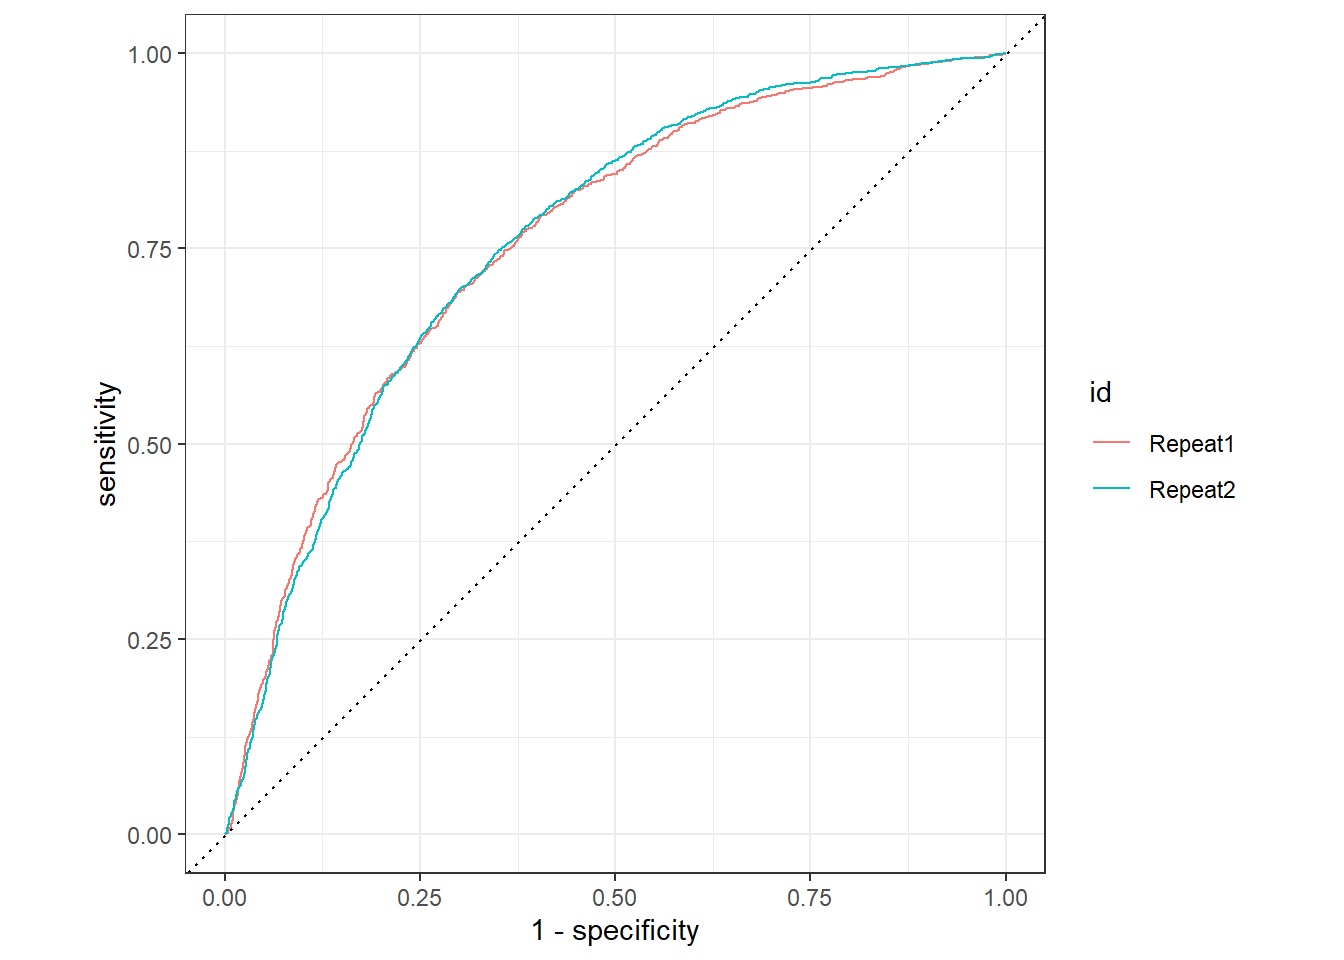
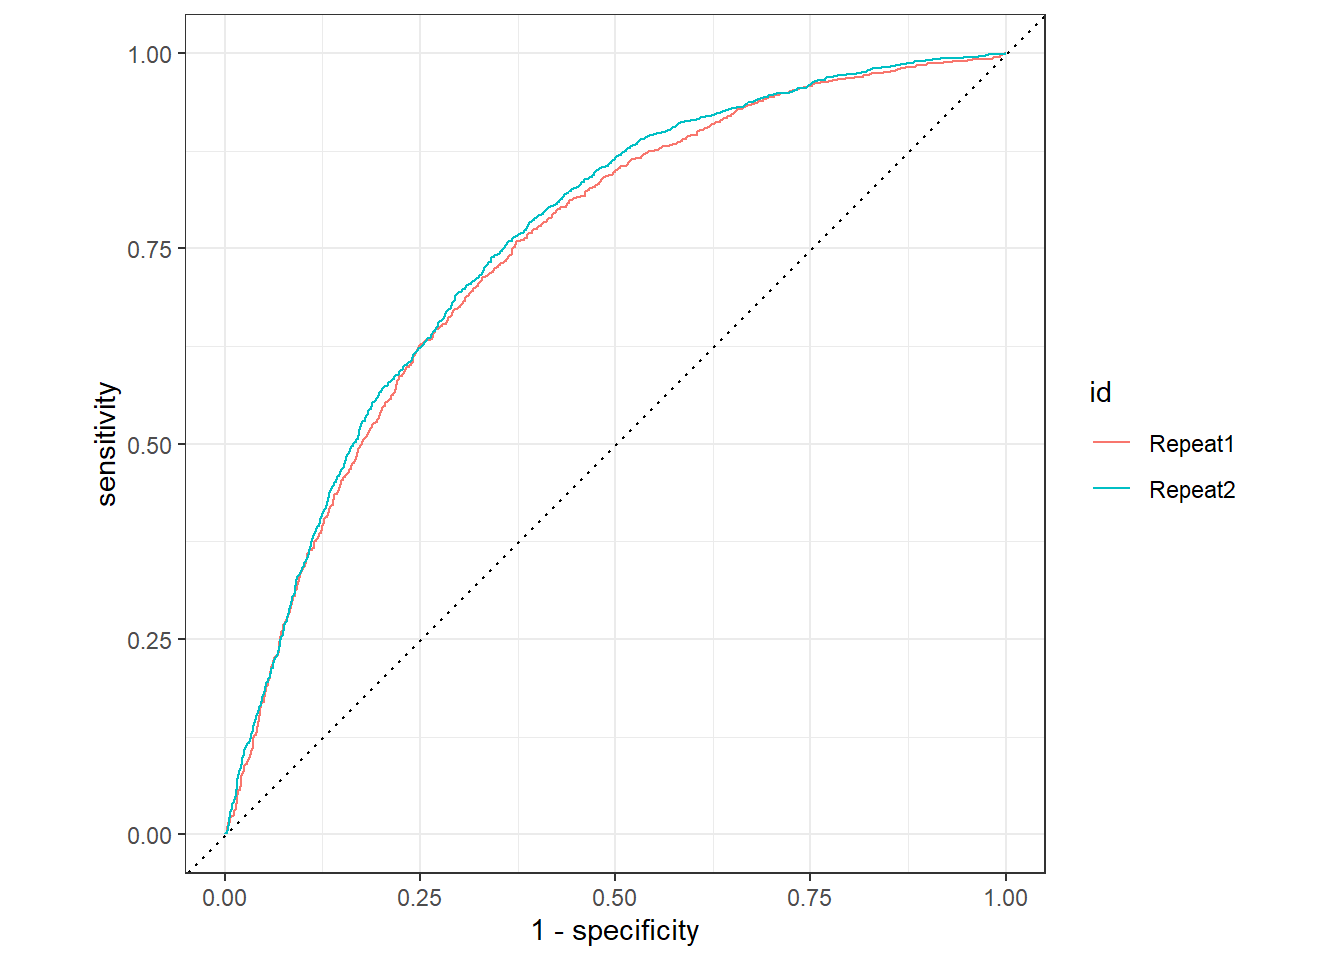
update 15.36

diff --git a/_site/posts/Text-Mining_NEW/index.html b/_site/posts/Text-Mining_NEW/index.html
@@ -614,7 +614,7 @@ Computational engine: glmnet </code></pre>
 <pre><code>Warning: Paket 'Matrix' wurde unter R Version 4.1.3 erstellt</code></pre>
 </div>
 <div class="cell-output cell-output-stderr">
-<pre><code>x Fold3, Repeat1: preprocessor 1/1, model 1/1 (predictions): Error in h(simpleError(msg, call)): Fehler bei der Auswertung des Argume...</code></pre>
+<pre><code>x Fold3, Repeat1: preprocessor 1/1, model 1/1: Error: kann Vektor der Größe 324.7 MB nicht allozieren</code></pre>
 </div>
 </div>
 </section>
@@ -627,16 +627,16 @@ Computational engine: glmnet </code></pre>
 <pre><code># A tibble: 50 x 7
     penalty .metric  .estimator  mean     n std_err .config              
       &lt;dbl&gt; &lt;chr&gt;    &lt;chr&gt;      &lt;dbl&gt; &lt;int&gt;   &lt;dbl&gt; &lt;chr&gt;                
- 1 1   e-10 accuracy binary     0.716     5 0.00444 Preprocessor1_Model01
- 2 1   e-10 roc_auc  binary     0.761     5 0.00319 Preprocessor1_Model01
- 3 2.61e-10 accuracy binary     0.716     5 0.00444 Preprocessor1_Model02
- 4 2.61e-10 roc_auc  binary     0.761     5 0.00319 Preprocessor1_Model02
- 5 6.81e-10 accuracy binary     0.716     5 0.00444 Preprocessor1_Model03
- 6 6.81e-10 roc_auc  binary     0.761     5 0.00319 Preprocessor1_Model03
- 7 1.78e- 9 accuracy binary     0.716     5 0.00444 Preprocessor1_Model04
- 8 1.78e- 9 roc_auc  binary     0.761     5 0.00319 Preprocessor1_Model04
- 9 4.64e- 9 accuracy binary     0.716     5 0.00444 Preprocessor1_Model05
-10 4.64e- 9 roc_auc  binary     0.761     5 0.00319 Preprocessor1_Model05
+ 1 1   e-10 accuracy binary     0.708     5 0.00370 Preprocessor1_Model01
+ 2 1   e-10 roc_auc  binary     0.756     5 0.00603 Preprocessor1_Model01
+ 3 2.61e-10 accuracy binary     0.708     5 0.00370 Preprocessor1_Model02
+ 4 2.61e-10 roc_auc  binary     0.756     5 0.00603 Preprocessor1_Model02
+ 5 6.81e-10 accuracy binary     0.708     5 0.00370 Preprocessor1_Model03
+ 6 6.81e-10 roc_auc  binary     0.756     5 0.00603 Preprocessor1_Model03
+ 7 1.78e- 9 accuracy binary     0.708     5 0.00370 Preprocessor1_Model04
+ 8 1.78e- 9 roc_auc  binary     0.756     5 0.00603 Preprocessor1_Model04
+ 9 4.64e- 9 accuracy binary     0.708     5 0.00370 Preprocessor1_Model05
+10 4.64e- 9 roc_auc  binary     0.756     5 0.00603 Preprocessor1_Model05
 # ... with 40 more rows</code></pre>
 </div>
 </div>
@@ -667,7 +667,7 @@ Computational engine: glmnet </code></pre>
 <pre><code># A tibble: 1 x 9
   penalty .metric .estimator  mean     n std_err .config            .best .bound
     &lt;dbl&gt; &lt;chr&gt;   &lt;chr&gt;      &lt;dbl&gt; &lt;int&gt;   &lt;dbl&gt; &lt;chr&gt;              &lt;dbl&gt;  &lt;dbl&gt;
-1       1 roc_auc binary     0.762     5 0.00322 Preprocessor1_Mod~ 0.762  0.759</code></pre>
+1       1 roc_auc binary     0.757     5 0.00593 Preprocessor1_Mod~ 0.757  0.751</code></pre>
 </div>
 </div>
 </section>
@@ -679,7 +679,7 @@ Computational engine: glmnet </code></pre>
 <pre><code># A tibble: 1 x 3
   .metric .estimator .estimate
   &lt;chr&gt;   &lt;chr&gt;          &lt;dbl&gt;
-1 ppv     binary         0.655</code></pre>
+1 ppv     binary         0.638</code></pre>
 </div>
 </div>
 </section>
@@ -772,16 +772,16 @@ Computational engine: glmnet </code></pre>
 <pre><code># A tibble: 50 x 7
     penalty .metric  .estimator  mean     n std_err .config              
       &lt;dbl&gt; &lt;chr&gt;    &lt;chr&gt;      &lt;dbl&gt; &lt;int&gt;   &lt;dbl&gt; &lt;chr&gt;                
- 1 1   e-10 accuracy binary     0.731     6 0.00223 Preprocessor1_Model01
- 2 1   e-10 roc_auc  binary     0.757     6 0.00357 Preprocessor1_Model01
- 3 2.61e-10 accuracy binary     0.731     6 0.00223 Preprocessor1_Model02
- 4 2.61e-10 roc_auc  binary     0.757     6 0.00357 Preprocessor1_Model02
- 5 6.81e-10 accuracy binary     0.731     6 0.00223 Preprocessor1_Model03
- 6 6.81e-10 roc_auc  binary     0.757     6 0.00357 Preprocessor1_Model03
- 7 1.78e- 9 accuracy binary     0.731     6 0.00223 Preprocessor1_Model04
- 8 1.78e- 9 roc_auc  binary     0.757     6 0.00357 Preprocessor1_Model04
- 9 4.64e- 9 accuracy binary     0.731     6 0.00223 Preprocessor1_Model05
-10 4.64e- 9 roc_auc  binary     0.757     6 0.00357 Preprocessor1_Model05
+ 1 1   e-10 accuracy binary     0.736     6 0.00297 Preprocessor1_Model01
+ 2 1   e-10 roc_auc  binary     0.763     6 0.00295 Preprocessor1_Model01
+ 3 2.61e-10 accuracy binary     0.736     6 0.00297 Preprocessor1_Model02
+ 4 2.61e-10 roc_auc  binary     0.763     6 0.00295 Preprocessor1_Model02
+ 5 6.81e-10 accuracy binary     0.736     6 0.00297 Preprocessor1_Model03
+ 6 6.81e-10 roc_auc  binary     0.763     6 0.00295 Preprocessor1_Model03
+ 7 1.78e- 9 accuracy binary     0.736     6 0.00297 Preprocessor1_Model04
+ 8 1.78e- 9 roc_auc  binary     0.763     6 0.00295 Preprocessor1_Model04
+ 9 4.64e- 9 accuracy binary     0.736     6 0.00297 Preprocessor1_Model05
+10 4.64e- 9 roc_auc  binary     0.763     6 0.00295 Preprocessor1_Model05
 # ... with 40 more rows</code></pre>
 </div>
 </div>
@@ -809,7 +809,7 @@ Computational engine: glmnet </code></pre>
 <pre><code># A tibble: 1 x 9
   penalty .metric .estimator  mean     n std_err .config            .best .bound
     &lt;dbl&gt; &lt;chr&gt;   &lt;chr&gt;      &lt;dbl&gt; &lt;int&gt;   &lt;dbl&gt; &lt;chr&gt;              &lt;dbl&gt;  &lt;dbl&gt;
-1   0.147 roc_auc binary     0.762     6 0.00269 Preprocessor1_Mod~ 0.763  0.760</code></pre>
+1   0.147 roc_auc binary     0.767     6 0.00378 Preprocessor1_Mod~ 0.768  0.764</code></pre>
 </div>
 </div>
 <div class="cell">
@@ -831,7 +831,7 @@ Computational engine: glmnet </code></pre>
 <pre><code># A tibble: 1 x 3
   .metric .estimator .estimate
   &lt;chr&gt;   &lt;chr&gt;          &lt;dbl&gt;
-1 ppv     binary         0.654</code></pre>
+1 ppv     binary         0.667</code></pre>
 </div>
 </div>
 </section>
@@ -906,7 +906,7 @@ Computational engine: glmnet </code></pre>
 <span id="cb72-8"><a href="#cb72-8" aria-hidden="true" tabindex="-1"></a>)</span>
 <span id="cb72-9"><a href="#cb72-9" aria-hidden="true" tabindex="-1"></a><span class="fu">toc</span>()</span></code><button title="Copy to Clipboard" class="code-copy-button"><i class="bi"></i></button></pre></div>
 <div class="cell-output cell-output-stdout">
-<pre><code>834.08 sec elapsed</code></pre>
+<pre><code>1227.83 sec elapsed</code></pre>
 </div>
 </div>
 </section>
@@ -919,16 +919,16 @@ Computational engine: glmnet </code></pre>
 <pre><code># A tibble: 50 x 7
     penalty .metric  .estimator  mean     n std_err .config              
       &lt;dbl&gt; &lt;chr&gt;    &lt;chr&gt;      &lt;dbl&gt; &lt;int&gt;   &lt;dbl&gt; &lt;chr&gt;                
- 1 1   e-10 accuracy binary     0.740     6 0.00391 Preprocessor1_Model01
- 2 1   e-10 roc_auc  binary     0.774     6 0.00518 Preprocessor1_Model01
- 3 2.61e-10 accuracy binary     0.740     6 0.00391 Preprocessor1_Model02
- 4 2.61e-10 roc_auc  binary     0.774     6 0.00518 Preprocessor1_Model02
- 5 6.81e-10 accuracy binary     0.740     6 0.00391 Preprocessor1_Model03
- 6 6.81e-10 roc_auc  binary     0.774     6 0.00518 Preprocessor1_Model03
- 7 1.78e- 9 accuracy binary     0.740     6 0.00391 Preprocessor1_Model04
- 8 1.78e- 9 roc_auc  binary     0.774     6 0.00518 Preprocessor1_Model04
- 9 4.64e- 9 accuracy binary     0.740     6 0.00391 Preprocessor1_Model05
-10 4.64e- 9 roc_auc  binary     0.774     6 0.00518 Preprocessor1_Model05
+ 1 1   e-10 accuracy binary     0.748     6 0.00200 Preprocessor1_Model01
+ 2 1   e-10 roc_auc  binary     0.774     6 0.00204 Preprocessor1_Model01
+ 3 2.61e-10 accuracy binary     0.748     6 0.00200 Preprocessor1_Model02
+ 4 2.61e-10 roc_auc  binary     0.774     6 0.00204 Preprocessor1_Model02
+ 5 6.81e-10 accuracy binary     0.748     6 0.00200 Preprocessor1_Model03
+ 6 6.81e-10 roc_auc  binary     0.774     6 0.00204 Preprocessor1_Model03
+ 7 1.78e- 9 accuracy binary     0.748     6 0.00200 Preprocessor1_Model04
+ 8 1.78e- 9 roc_auc  binary     0.774     6 0.00204 Preprocessor1_Model04
+ 9 4.64e- 9 accuracy binary     0.748     6 0.00200 Preprocessor1_Model05
+10 4.64e- 9 roc_auc  binary     0.774     6 0.00204 Preprocessor1_Model05
 # ... with 40 more rows</code></pre>
 </div>
 </div>
@@ -969,7 +969,7 @@ Computational engine: glmnet </code></pre>
 <pre><code># A tibble: 1 x 9
   penalty .metric .estimator  mean     n std_err .config            .best .bound
     &lt;dbl&gt; &lt;chr&gt;   &lt;chr&gt;      &lt;dbl&gt; &lt;int&gt;   &lt;dbl&gt; &lt;chr&gt;              &lt;dbl&gt;  &lt;dbl&gt;
-1 0.00825 roc_auc binary     0.780     6 0.00353 Preprocessor1_Mod~ 0.780  0.777</code></pre>
+1 0.00825 roc_auc binary     0.784     6 0.00471 Preprocessor1_Mod~ 0.784  0.780</code></pre>
 </div>
 </div>
 </section>
@@ -981,7 +981,7 @@ Computational engine: glmnet </code></pre>
 <pre><code># A tibble: 1 x 3
   .metric .estimator .estimate
   &lt;chr&gt;   &lt;chr&gt;          &lt;dbl&gt;
-1 ppv     binary         0.659</code></pre>
+1 ppv     binary         0.677</code></pre>
 </div>
 </div>
 </section>
@@ -1064,16 +1064,16 @@ Computational engine: glmnet </code></pre>
 <pre><code># A tibble: 50 x 7
     penalty .metric  .estimator  mean     n std_err .config              
       &lt;dbl&gt; &lt;chr&gt;    &lt;chr&gt;      &lt;dbl&gt; &lt;int&gt;   &lt;dbl&gt; &lt;chr&gt;                
- 1 1   e-10 accuracy binary     0.709     6 0.00201 Preprocessor1_Model01
- 2 1   e-10 roc_auc  binary     0.770     6 0.00407 Preprocessor1_Model01
- 3 2.61e-10 accuracy binary     0.709     6 0.00201 Preprocessor1_Model02
- 4 2.61e-10 roc_auc  binary     0.770     6 0.00407 Preprocessor1_Model02
- 5 6.81e-10 accuracy binary     0.709     6 0.00201 Preprocessor1_Model03
- 6 6.81e-10 roc_auc  binary     0.770     6 0.00407 Preprocessor1_Model03
- 7 1.78e- 9 accuracy binary     0.709     6 0.00201 Preprocessor1_Model04
- 8 1.78e- 9 roc_auc  binary     0.770     6 0.00407 Preprocessor1_Model04
- 9 4.64e- 9 accuracy binary     0.709     6 0.00201 Preprocessor1_Model05
-10 4.64e- 9 roc_auc  binary     0.770     6 0.00407 Preprocessor1_Model05
+ 1 1   e-10 accuracy binary     0.703     6 0.00190 Preprocessor1_Model01
+ 2 1   e-10 roc_auc  binary     0.768     6 0.00502 Preprocessor1_Model01
+ 3 2.61e-10 accuracy binary     0.703     6 0.00190 Preprocessor1_Model02
+ 4 2.61e-10 roc_auc  binary     0.768     6 0.00502 Preprocessor1_Model02
+ 5 6.81e-10 accuracy binary     0.703     6 0.00190 Preprocessor1_Model03
+ 6 6.81e-10 roc_auc  binary     0.768     6 0.00502 Preprocessor1_Model03
+ 7 1.78e- 9 accuracy binary     0.703     6 0.00190 Preprocessor1_Model04
+ 8 1.78e- 9 roc_auc  binary     0.768     6 0.00502 Preprocessor1_Model04
+ 9 4.64e- 9 accuracy binary     0.703     6 0.00190 Preprocessor1_Model05
+10 4.64e- 9 roc_auc  binary     0.768     6 0.00502 Preprocessor1_Model05
 # ... with 40 more rows</code></pre>
 </div>
 </div>
@@ -1101,7 +1101,7 @@ Computational engine: glmnet </code></pre>
 <pre><code># A tibble: 1 x 9
   penalty .metric .estimator  mean     n std_err .config            .best .bound
     &lt;dbl&gt; &lt;chr&gt;   &lt;chr&gt;      &lt;dbl&gt; &lt;int&gt;   &lt;dbl&gt; &lt;chr&gt;              &lt;dbl&gt;  &lt;dbl&gt;
-1       1 roc_auc binary     0.770     6 0.00407 Preprocessor1_Mod~ 0.770  0.766</code></pre>
+1       1 roc_auc binary     0.768     6 0.00502 Preprocessor1_Mod~ 0.768  0.763</code></pre>
 </div>
 </div>
 <div class="cell">
@@ -1123,7 +1123,7 @@ Computational engine: glmnet </code></pre>
 <pre><code># A tibble: 1 x 3
   .metric .estimator .estimate
   &lt;chr&gt;   &lt;chr&gt;          &lt;dbl&gt;
-1 ppv     binary         0.683</code></pre>
+1 ppv     binary         0.665</code></pre>
 </div>
 </div>
 </section>

diff --git a/_site/index.html b/_site/index.html
@@ -171,9 +171,9 @@ ul.task-list li input[type="checkbox"] {
 
 <div class="quarto-listing quarto-listing-container-default" id="listing-listing">
 <div class="list quarto-listing-default">
-<div class="quarto-post image-right" data-index="0" data-categories="code,analysis" data-listing-date-sort="1675119600000" data-listing-file-modified-sort="1675248364118" data-listing-reading-time-sort="2.07">
+<div class="quarto-post image-right" data-index="0" data-categories="code,analysis" data-listing-date-sort="1675119600000" data-listing-file-modified-sort="1675259705884" data-listing-reading-time-sort="1.715">
 <div class="thumbnail">
-<p><a href="./posts/Text-Mining_Solutions/index.html"> <img src="./posts/Text-Mining_Solutions/image_solution.jpg" class="thumnail-image"> </a></p>
+<p><a href="./posts/Text-Mining_Solutions/index.html"> <img src="./posts/Text-Mining_Solutions/image_solution.png" class="thumnail-image"> </a></p>
 </div>
 <div class="body">
 <a href="./posts/Text-Mining_Solutions/index.html">
@@ -209,7 +209,7 @@ Sabrina Michl
 </a>
 </div>
 </div>
-<div class="quarto-post image-right" data-index="1" data-categories="code,analysis" data-listing-date-sort="1675033200000" data-listing-file-modified-sort="1675198195098" data-listing-reading-time-sort="5.38">
+<div class="quarto-post image-right" data-index="1" data-categories="code,analysis" data-listing-date-sort="1675033200000" data-listing-file-modified-sort="1675257888924" data-listing-reading-time-sort="5.04">
 <div class="thumbnail">
 <p><a href="./posts/Text-Mining_NEW/index.html"> <img src="./posts/Text-Mining_NEW/image.jpg" class="thumnail-image"> </a></p>
 </div>
@@ -232,7 +232,7 @@ analysis
 </div>
 <a href="./posts/Text-Mining_NEW/index.html">
 <div class="listing-description">
-For this analysis we use the dataset from <span class="citation" data-cites="data/0B5VML_2019">Wiegand (2019a)</span> out of the zip archive <span class="citation" data-cites="data/0B5VML/XIUWJ7_2019">Wiegand (2019b)</span>. The data are licensed according to Attribution 4.0…
+For this analysis we use the dataset from <span class="citation" data-cites="data/0B5VML_2019">Wiegand (2019a)</span> out of the zip archive <span class="citation" data-cites="data/0B5VML/XIUWJ7_2019">Wiegand (2019b)</span>. The data are licensed according to Attribution 4.0 International (CC-BY-4.0).
 </div>
 </a>
 </div>
